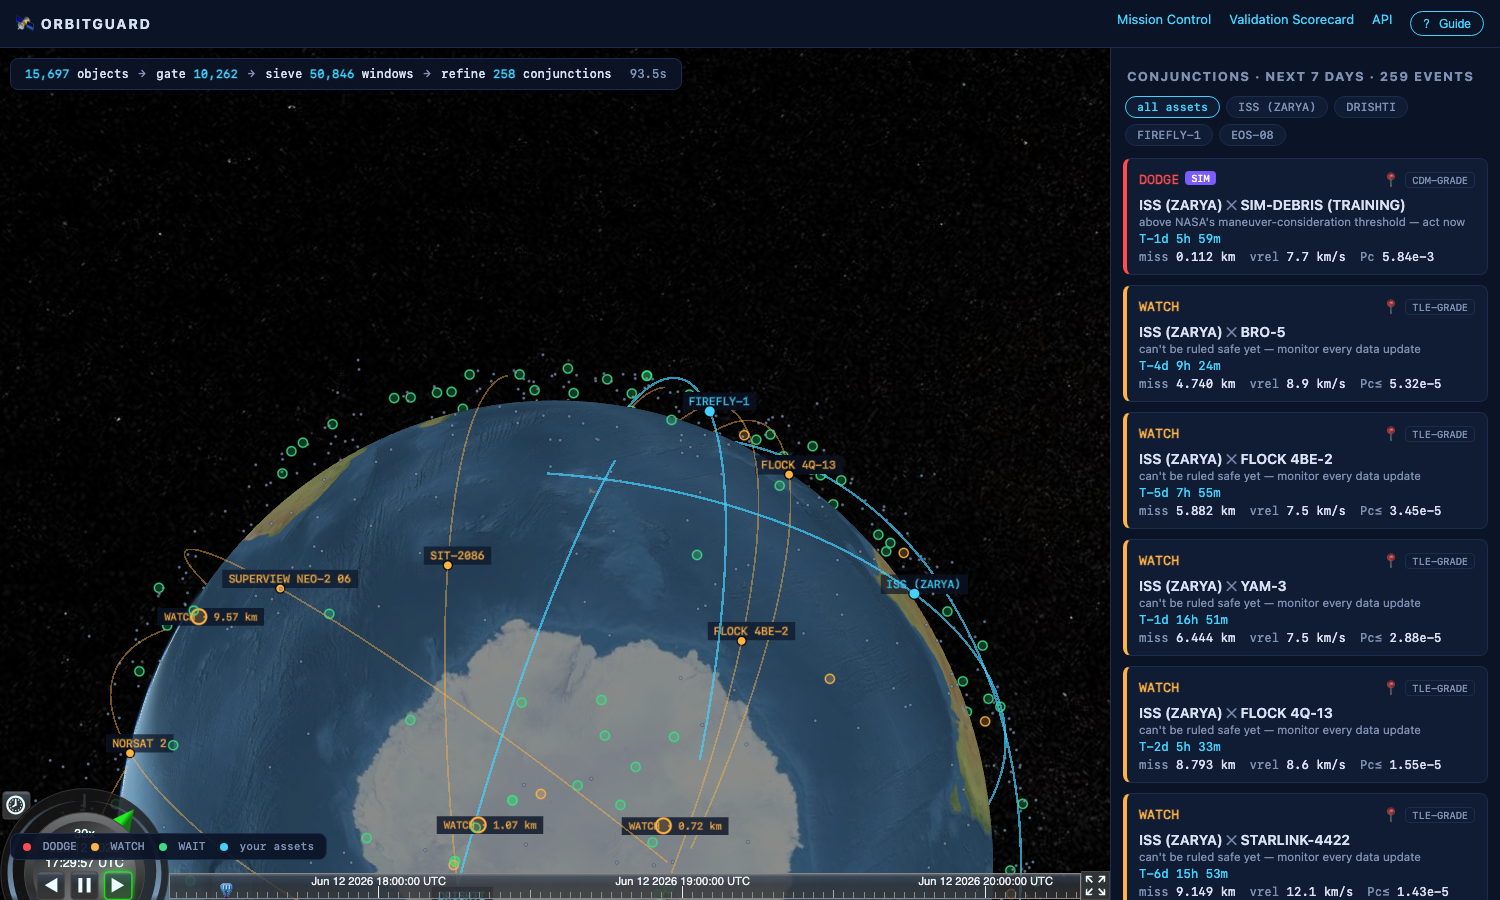
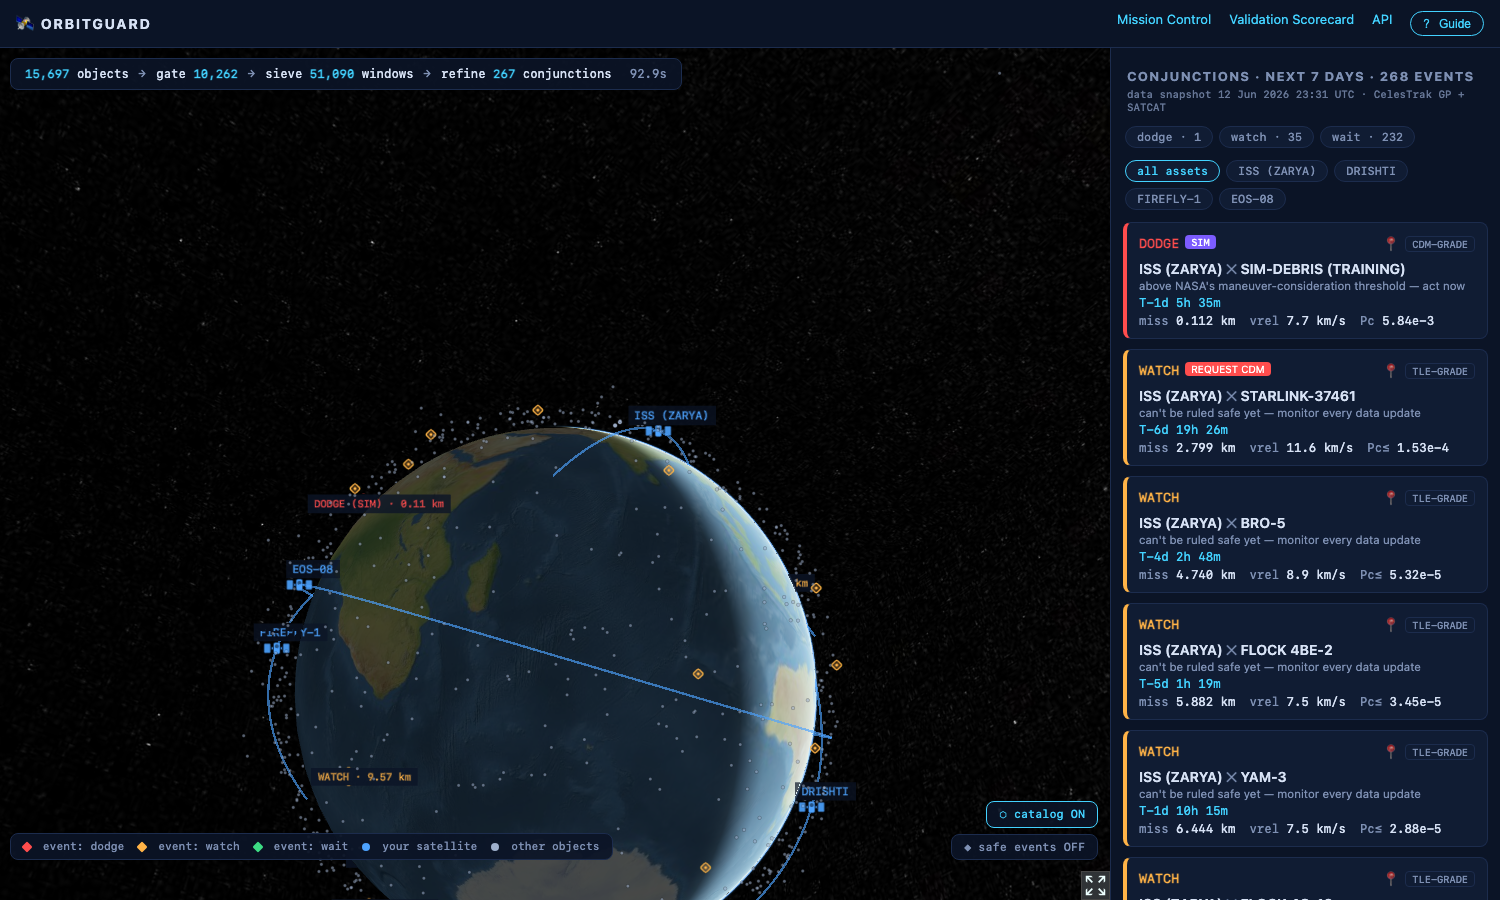
Fix label collision and globe clutter; respect occlusion; cleaner opening shot
- telemetry readout now sits below the stage header (no more text collision)
- markers no longer render through the planet (removed depth-test override)
- low-risk WAIT diamonds hidden by default with a 'safe events' toggle —
  the globe shows what needs attention; the dock lists everything
- opening camera frames the full globe; timeline chrome hidden outside encounters
- labelled events trimmed to top 8; stacked layer toggles

diff --git a/orbitguard/web/components/Globe.tsx b/orbitguard/web/components/Globe.tsx
@@ -93,6 +93,9 @@ export default function Globe({
   // ambient catalog layer: context in mission control, noise in the
   // encounter view — so it defaults off there and is always toggleable
   const [showAmbient, setShowAmbient] = useState(!encounter);
+  // low-risk (WAIT) event markers are hidden by default: they're in the dock,
+  // and 200+ green diamonds on the globe is noise, not information
+  const [showWaitEvents, setShowWaitEvents] = useState(false);
   const [camMode, setCamMode] = useState<"cine" | "chase" | "free">("cine");
   const [speed, setSpeed] = useState(25);
   const [paused, setPaused] = useState(false);
@@ -116,8 +119,8 @@ export default function Globe({
         navigationHelpButton: false,
         infoBox: false,
         selectionIndicator: false,
-        timeline: true,
-        animation: true,
+        timeline: Boolean(encounter),
+        animation: Boolean(encounter),
         shouldAnimate: true,
       });
       viewerRef.current = viewer;
@@ -139,7 +142,7 @@ export default function Globe({
       viewer.clock.currentTime = startJd;
       viewer.clock.clockRange = Cesium.ClockRange.LOOP_STOP;
       viewer.clock.multiplier = tca ? 25 : 30;
-      viewer.timeline.zoomTo(startJd, stopJd);
+      viewer.timeline?.zoomTo(startJd, stopJd);
 
       // top events drive which partners get full animated treatment
       const ranked = [...events].sort(
@@ -147,7 +150,7 @@ export default function Globe({
           (b.probability.pc ?? b.probability.pc_max ?? 0) -
           (a.probability.pc ?? a.probability.pc_max ?? 0)
       );
-      const topEvents = ranked.slice(0, 12);
+      const topEvents = ranked.slice(0, 8);
       const partnerVerdict = new Map<number, string>();
       for (const e of topEvents) {
         const prev = partnerVerdict.get(e.object.norad_id);
@@ -224,7 +227,6 @@ export default function Globe({
               image: satIcon(cssColor),
               width: isAsset ? 30 : 26,
               height: isAsset ? 30 : 26,
-              disableDepthTestDistance: Number.POSITIVE_INFINITY,
             },
             label: {
               text: entry.name,
@@ -260,8 +262,11 @@ export default function Globe({
         }
       }
 
-      // conjunction markers at TCA positions; labels only for the top risks
+      // conjunction markers at TCA positions; labels only for the top risks.
+      // Low-risk WAIT diamonds start hidden (the dock lists them) — the globe
+      // shows what needs attention, not everything that exists.
       const labelled = new Set(topEvents.map((e) => e.event_id));
+      const waitMarkers: any[] = [];
       for (const e of events) {
         const entry = byId.get(e.object.norad_id) ?? byId.get(e.asset.norad_id);
         if (!entry?.tle) continue;
@@ -273,15 +278,16 @@ export default function Globe({
         if (!p) continue;
         const showLabel = labelled.has(e.event_id) || Boolean(focusEventId);
         const vColor = VERDICT_COLORS[e.verdict];
-        viewer.entities.add({
+        const lowRisk = e.verdict === "WAIT" && !showLabel;
+        const evEnt = viewer.entities.add({
           id: `evt-${e.event_id}`,
+          show: !lowRisk,
           name: `${e.verdict}: ${e.asset.name} x ${e.object.name}`,
           position: new Cesium.Cartesian3(p.x, p.y, p.z),
           billboard: {
             image: eventIcon(vColor),
-            width: showLabel ? 24 : 15,
-            height: showLabel ? 24 : 15,
-            disableDepthTestDistance: Number.POSITIVE_INFINITY,
+            width: showLabel ? 24 : 14,
+            height: showLabel ? 24 : 14,
           },
           label: showLabel
             ? {
@@ -294,6 +300,7 @@ export default function Globe({
               }
             : undefined,
         });
+        if (lowRisk) waitMarkers.push(evEnt);
       }
 
       // ---- encounter mode: cinematic dual-tracking + tether + telemetry ----
@@ -469,7 +476,7 @@ export default function Globe({
         ? viewer.entities.getById(`evt-${focusEventId}`)
         : viewer.entities.getById(`sat-${assetIds[0]}`);
       if (focus && !encounter) {
-        const range = focusEventId ? 2.0e6 : 1.1e7;
+        const range = focusEventId ? 2.0e6 : 2.0e7;
         viewer.flyTo(focus, { offset: new Cesium.HeadingPitchRange(0, -0.7, range) });
       }
 
@@ -485,6 +492,7 @@ export default function Globe({
       window.addEventListener("og-focus", onFocus);
       (viewer as any).__ogFocusListener = onFocus;
       (viewer as any).__ogAmbient = ambient;
+      (viewer as any).__ogWaitMarkers = waitMarkers;
 
       // following an ambient object: its 120 s samples are fine for a dot but
       // wobble under a tracking camera — resample at 10 s before locking on
@@ -545,6 +553,13 @@ export default function Globe({
     setShowAmbient(next);
   };
 
+  const toggleWaitEvents = () => {
+    const viewer = viewerRef.current;
+    const next = !showWaitEvents;
+    viewer?.__ogWaitMarkers?.forEach((e: any) => (e.show = next));
+    setShowWaitEvents(next);
+  };
+
   const switchCam = (m: "cine" | "chase" | "free") => {
     viewerRef.current?.__setCamMode?.(m);
     setCamMode(m);
@@ -594,13 +609,24 @@ export default function Globe({
           </span>
         </div>
       )}
-      <button
-        className={`layer-toggle tip ${showAmbient ? "on" : ""}`}
-        data-tip="The grey dots are the rest of the tracked catalog — real Starlinks, debris and rocket bodies for situational context. Toggle them off to focus on your assets."
-        onClick={toggleAmbient}
-      >
-        ⬡ catalog {showAmbient ? "ON" : "OFF"}
-      </button>
+      <div className="layer-toggles">
+        <button
+          className={`layer-toggle tip ${showAmbient ? "on" : ""}`}
+          data-tip="The grey dots are the rest of the tracked catalog — real Starlinks, debris and rocket bodies for situational context. Toggle them off to focus on your assets."
+          onClick={toggleAmbient}
+        >
+          ⬡ catalog {showAmbient ? "ON" : "OFF"}
+        </button>
+        {!encounter && (
+          <button
+            className={`layer-toggle tip ${showWaitEvents ? "on" : ""}`}
+            data-tip="Provably-safe (WAIT) events are listed in the dock but hidden on the globe by default — toggle to see all of them as green diamonds."
+            onClick={toggleWaitEvents}
+          >
+            ◆ safe events {showWaitEvents ? "ON" : "OFF"}
+          </button>
+        )}
+      </div>
       {sel && (
         <div className="sat-panel">
           <div className="sat-head">

diff --git a/orbitguard/web/app/globals.css b/orbitguard/web/app/globals.css
@@ -358,7 +358,8 @@ pre.raw {
   white-space: nowrap;
 }
 .sep-readout {
-  position: absolute; top: 10px; left: 50%; transform: translateX(-50%); z-index: 15;
+  /* sits BELOW the stage header so the two never collide */
+  position: absolute; top: 62px; left: 50%; transform: translateX(-50%); z-index: 14;
   background: rgba(11, 20, 38, 0.94); border: 1px solid var(--border); border-radius: 8px;
   padding: 7px 16px; font-family: var(--mono); font-size: 13px; color: var(--text);
   min-width: 320px; text-align: center;
@@ -386,8 +387,11 @@ pre.raw {
   background: #7c5cff; color: #fff; vertical-align: 2px; font-family: var(--mono);
 }
 
-.layer-toggle {
+.layer-toggles {
   position: absolute; bottom: 40px; right: 12px; z-index: 15;
+  display: flex; flex-direction: column; gap: 6px; align-items: flex-end;
+}
+.layer-toggle {
   background: rgba(11, 20, 38, 0.92); border: 1px solid var(--border);
   color: var(--muted); border-radius: 8px; padding: 5px 12px;
   font-size: 11.5px; font-family: var(--mono); cursor: pointer;